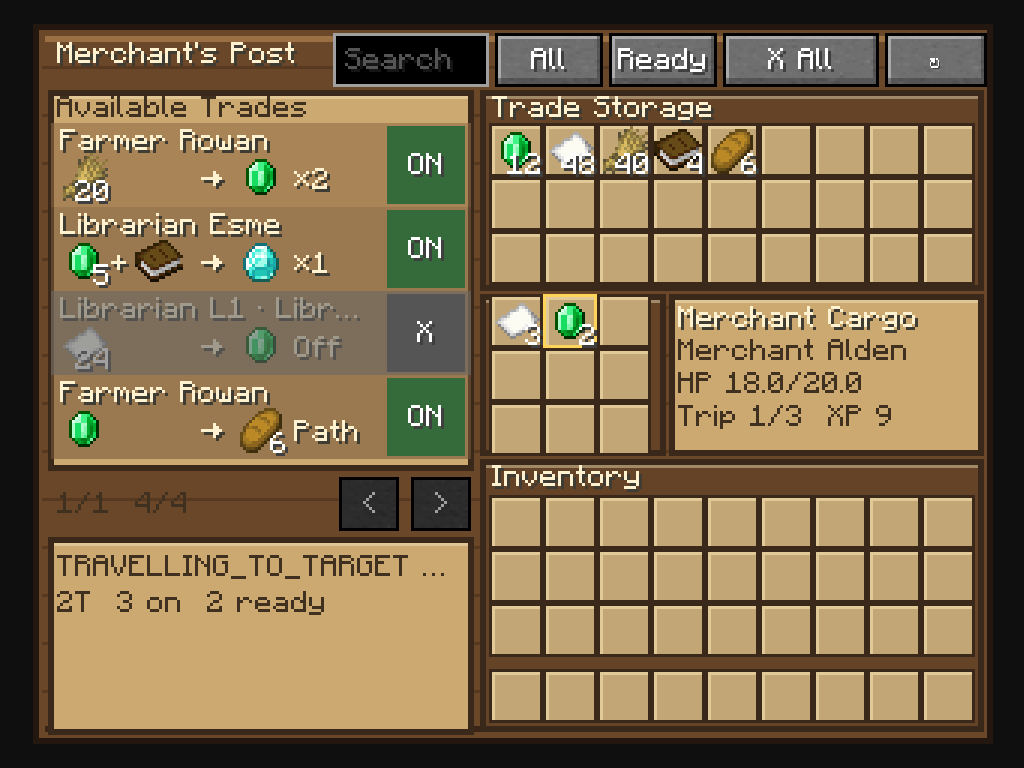
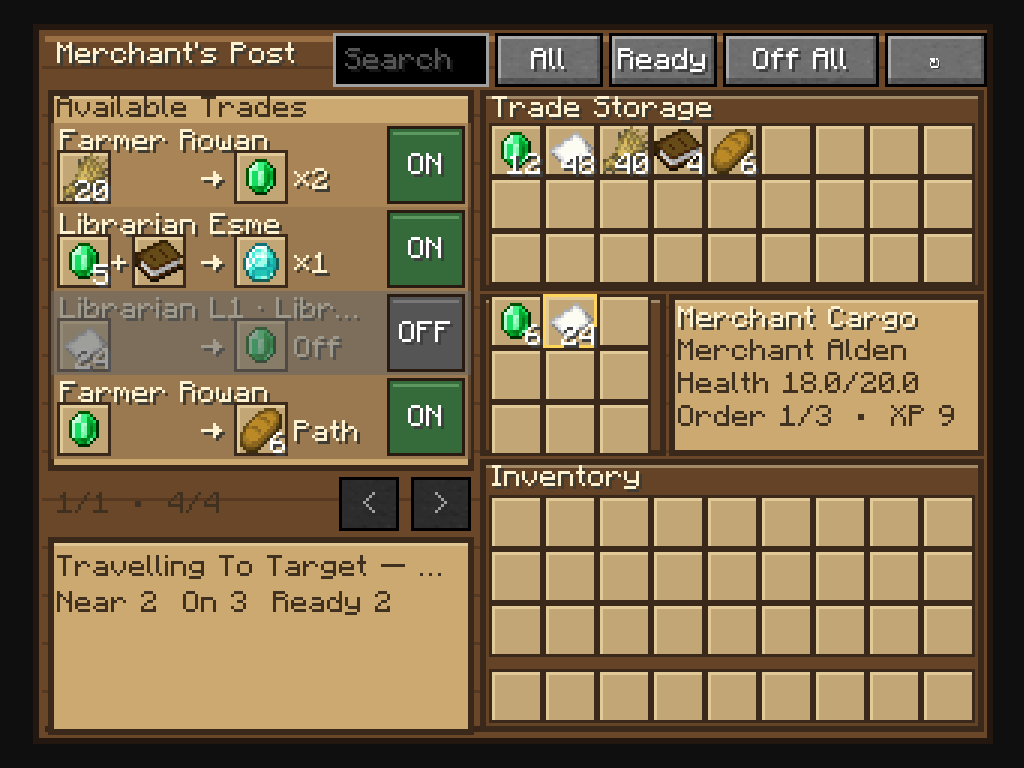
Polish merchant screen and refresh release audit

diff --git a/src/client/java/com/fluffybacon/merchantvillager/screen/client/MerchantPostScreen.java b/src/client/java/com/fluffybacon/merchantvillager/screen/client/MerchantPostScreen.java
@@ -81,7 +81,8 @@ public final class MerchantPostScreen extends HandledScreen<MerchantPostScreenHa
         search.setChangedListener(ignored -> page = 0);
         addDrawableChild(search);
 
-        filterButton = addDrawableChild(ButtonWidget.builder(Text.literal("All"), button -> {
+        filterButton = addDrawableChild(ButtonWidget.builder(
+            Text.translatable("merchant_villager.filter.all"), button -> {
             CataloguePayload payload = catalogue();
             int count = payload == null ? 1 : filterChoices(payload).size();
             filterIndex = Math.floorMod(filterIndex + 1, count);
@@ -90,14 +91,14 @@ public final class MerchantPostScreen extends HandledScreen<MerchantPostScreenHa
         }).dimensions(x + 154, y + 3, 36, 18)
             .tooltip(Tooltip.of(Text.translatable("merchant_villager.tooltip.filter")))
             .build());
-        sortButton = addDrawableChild(ButtonWidget.builder(Text.literal(sortMode.label), button -> {
+        sortButton = addDrawableChild(ButtonWidget.builder(Text.translatable(sortMode.key), button -> {
             sortMode = sortMode.next();
             page = 0;
             updateControlLabels(catalogue());
         }).dimensions(x + 192, y + 3, 36, 18)
             .tooltip(Tooltip.of(Text.translatable("merchant_villager.tooltip.sort")))
             .build());
-        addDrawableChild(ButtonWidget.builder(Text.literal("X All"), button -> {
+        addDrawableChild(ButtonWidget.builder(Text.translatable("merchant_villager.disable_all"), button -> {
             CataloguePayload payload = catalogue();
             if (payload != null) {
                 ClientPlayNetworking.send(new DisableAllOffersPayload(payload.postPos()));
@@ -177,7 +178,7 @@ public final class MerchantPostScreen extends HandledScreen<MerchantPostScreenHa
         if (entries.isEmpty()) {
             context.drawCenteredTextWithShadow(
                 textRenderer,
-                Text.literal("No matching trades"),
+                Text.translatable("merchant_villager.no_matching_trades"),
                 x + TRADE_LEFT + TRADE_WIDTH / 2,
                 y + 82,
                 0xFF6A5540
@@ -185,7 +186,9 @@ public final class MerchantPostScreen extends HandledScreen<MerchantPostScreenHa
         }
         context.drawText(
             textRenderer,
-            Text.literal((page + 1) + "/" + pages + "  " + entries.size() + "/" + payload.entries().size()),
+            Text.translatable(
+                "merchant_villager.page_summary", page + 1, pages, entries.size(), payload.entries().size()
+            ),
             x + 8,
             y + 156,
             0xFF403020,
@@ -198,7 +201,7 @@ public final class MerchantPostScreen extends HandledScreen<MerchantPostScreenHa
     private void drawStatusFooter(DrawContext context, CataloguePayload payload) {
         context.drawText(
             textRenderer,
-            fitText(payload.workerState() + " \u2014 " + payload.status(), 132),
+            fitText(displayState(payload.workerState()) + " \u2014 " + payload.status(), 132),
             x + 8,
             y + 177,
             0xFF403020,
@@ -206,11 +209,10 @@ public final class MerchantPostScreen extends HandledScreen<MerchantPostScreenHa
         );
         context.drawText(
             textRenderer,
-            Text.literal(
-                payload.targetCount() + "T  "
-                    + payload.enabledCount() + " on  "
-                    + payload.executableCount() + " ready"
-            ),
+            fitText(Text.translatable(
+                    "merchant_villager.trade_summary",
+                    payload.targetCount(), payload.enabledCount(), payload.executableCount()
+                ).getString(), 132),
             x + 8,
             y + 189,
             0xFF403020,
@@ -311,7 +313,7 @@ public final class MerchantPostScreen extends HandledScreen<MerchantPostScreenHa
             );
             context.drawText(
                 textRenderer,
-                Text.literal(payload.targetCount() + " targets"),
+                Text.translatable("merchant_villager.target_count", payload.targetCount()),
                 left,
                 y + 117,
                 color,
@@ -323,7 +325,9 @@ public final class MerchantPostScreen extends HandledScreen<MerchantPostScreenHa
         context.drawText(textRenderer, fitText(stats.name(), 98), left, y + 105, color, false);
         context.drawText(
             textRenderer,
-            Text.literal("HP " + formatOne(stats.health()) + "/" + formatOne(stats.maxHealth())),
+            Text.translatable(
+                "merchant_villager.health", formatOne(stats.health()), formatOne(stats.maxHealth())
+            ),
             left,
             y + 116,
             color,
@@ -332,8 +336,10 @@ public final class MerchantPostScreen extends HandledScreen<MerchantPostScreenHa
         context.drawText(
             textRenderer,
             fitText(
-                "Trip " + stats.completedExecutions() + "/" + stats.plannedExecutions()
-                    + "  XP " + stats.storedExperience(),
+                Text.translatable(
+                    "merchant_villager.work_order",
+                    stats.completedExecutions(), stats.plannedExecutions(), stats.storedExperience()
+                ).getString(),
                 98
             ),
             left,
@@ -363,6 +369,15 @@ public final class MerchantPostScreen extends HandledScreen<MerchantPostScreenHa
         context.fill(slotX, slotY, slotX + 16, slotY + 16, 0xFFC2A675);
         context.fill(slotX, slotY, slotX + 16, slotY + 1, 0xFFE2C998);
         context.fill(slotX, slotY, slotX + 1, slotY + 16, 0xFFE2C998);
+    }
+
+    private static void drawOutline(
+        DrawContext context, int left, int top, int right, int bottom, int color
+    ) {
+        context.fill(left, top, right, top + 1, color);
+        context.fill(left, bottom - 1, right, bottom, color);
+        context.fill(left, top + 1, left + 1, bottom - 1, color);
+        context.fill(right - 1, top + 1, right, bottom - 1, color);
     }
 
     @Override
@@ -412,17 +427,29 @@ public final class MerchantPostScreen extends HandledScreen<MerchantPostScreenHa
             rowY + TRADE_ROW_HEIGHT - 2,
             background
         );
+        if (hovered || entry.selected()) {
+            drawOutline(
+                context,
+                x + TRADE_LEFT,
+                rowY - 2,
+                x + TRADE_LEFT + TRADE_WIDTH,
+                rowY + TRADE_ROW_HEIGHT - 2,
+                entry.selected() ? 0xFFFFD45A : 0xFFD9B879
+            );
+        }
         String target = fitText(targetDisplayLabel(payload, entry), TOGGLE_X - 13);
         context.drawText(textRenderer, target, x + 9, rowY, 0xFFFFF2D0, true);
         int itemX = x + INPUT_X;
         int itemY = rowY + 9;
         ItemStack first = entry.offer().firstInput().itemStack()
             .copyWithCount(entry.effectiveFirstCount());
+        drawSlotFrame(context, itemX, itemY - 1);
         drawGhostInput(context, first, entry.offer().firstInput().matches(handler.getCursorStack()), itemX, itemY);
         if (entry.offer().secondInput().isPresent()) {
             context.drawText(textRenderer, "+", itemX + 17, itemY + 4, 0xFFFFF2D0, true);
             ItemStack second = entry.offer().secondInput().get().itemStack()
                 .copyWithCount(entry.effectiveSecondCount());
+            drawSlotFrame(context, x + SECOND_INPUT_X, itemY - 1);
             drawGhostInput(
                 context,
                 second,
@@ -432,6 +459,7 @@ public final class MerchantPostScreen extends HandledScreen<MerchantPostScreenHa
             );
         }
         context.drawText(textRenderer, "\u2192", x + 56, itemY + 4, 0xFFFFF2D0, true);
+        drawSlotFrame(context, x + OUTPUT_X, itemY - 1);
         context.drawItem(entry.offer().output(), x + OUTPUT_X, itemY - 1);
         context.drawStackOverlay(textRenderer, entry.offer().output(), x + OUTPUT_X, itemY - 1);
         context.drawText(
@@ -451,16 +479,33 @@ public final class MerchantPostScreen extends HandledScreen<MerchantPostScreenHa
                 0x99606060
             );
         }
+        int toggleFill = entry.enabled() ? 0xFF356A3A : 0xFF555555;
         context.fill(
             x + TOGGLE_X,
             rowY - 1,
             x + TOGGLE_X + 26,
             rowY + TRADE_ROW_HEIGHT - 3,
-            entry.enabled() ? 0xFF356A3A : 0xFF555555
+            0xFF2A1B12
+        );
+        context.fill(
+            x + TOGGLE_X + 1,
+            rowY,
+            x + TOGGLE_X + 25,
+            rowY + TRADE_ROW_HEIGHT - 4,
+            toggleFill
+        );
+        context.fill(
+            x + TOGGLE_X + 2,
+            rowY + 1,
+            x + TOGGLE_X + 24,
+            rowY + 2,
+            entry.enabled() ? 0xFF5C985F : 0xFF777777
         );
         context.drawCenteredTextWithShadow(
             textRenderer,
-            entry.enabled() ? "ON" : "X",
+            Text.translatable(entry.enabled()
+                ? "merchant_villager.toggle.on"
+                : "merchant_villager.toggle.off"),
             x + TOGGLE_X + 13,
             rowY + 8,
             0xFFFFFFFF
@@ -786,14 +831,14 @@ public final class MerchantPostScreen extends HandledScreen<MerchantPostScreenHa
 
     private List<FilterChoice> filterChoices(CataloguePayload payload) {
         List<FilterChoice> choices = new ArrayList<>();
-        choices.add(new FilterChoice("All", ignored -> true));
-        choices.add(new FilterChoice("Enabled", CataloguePayload.Entry::enabled));
-        choices.add(new FilterChoice("Disabled", entry -> !entry.enabled()));
-        choices.add(new FilterChoice("Ready", MerchantPostScreen::isReady));
-        choices.add(new FilterChoice("Missing", entry ->
+        choices.add(new FilterChoice(translated("merchant_villager.filter.all"), ignored -> true));
+        choices.add(new FilterChoice(translated("merchant_villager.filter.enabled"), CataloguePayload.Entry::enabled));
+        choices.add(new FilterChoice(translated("merchant_villager.filter.disabled"), entry -> !entry.enabled()));
+        choices.add(new FilterChoice(translated("merchant_villager.filter.ready"), MerchantPostScreen::isReady));
+        choices.add(new FilterChoice(translated("merchant_villager.filter.missing"), entry ->
             entry.enabled() && !entry.offer().isOutOfStock() && entry.fundableExecutions() <= 0));
-        choices.add(new FilterChoice("Out", entry -> entry.offer().isOutOfStock()));
-        choices.add(new FilterChoice("Wander", entry -> entry.offer().wanderingTrader()));
+        choices.add(new FilterChoice(translated("merchant_villager.filter.out"), entry -> entry.offer().isOutOfStock()));
+        choices.add(new FilterChoice(translated("merchant_villager.filter.wander"), entry -> entry.offer().wanderingTrader()));
         payload.entries().stream()
             .map(entry -> entry.offer().profession())
             .distinct()
@@ -812,7 +857,7 @@ public final class MerchantPostScreen extends HandledScreen<MerchantPostScreenHa
             filterButton.setMessage(Text.literal(filters.get(filterIndex).label));
         }
         if (sortButton != null) {
-            sortButton.setMessage(Text.literal(sortMode.label));
+            sortButton.setMessage(Text.translatable(sortMode.key));
         }
     }
 
@@ -944,6 +989,27 @@ public final class MerchantPostScreen extends HandledScreen<MerchantPostScreenHa
         return text.length() <= max ? text : text.substring(0, Math.max(0, max - 1)) + "\u2026";
     }
 
+    private static String translated(String key) {
+        return Text.translatable(key).getString();
+    }
+
+    private static String displayState(String state) {
+        if (state == null || state.isBlank()) {
+            return translated("merchant_villager.state.unknown");
+        }
+        String[] words = state.toLowerCase(Locale.ROOT).split("_");
+        StringBuilder result = new StringBuilder();
+        for (String word : words) {
+            if (!result.isEmpty()) {
+                result.append(' ');
+            }
+            if (!word.isEmpty()) {
+                result.append(Character.toUpperCase(word.charAt(0))).append(word.substring(1));
+            }
+        }
+        return result.toString();
+    }
+
     private String fitText(String text, int maxWidth) {
         if (textRenderer.getWidth(text) <= maxWidth) {
             return text;
@@ -965,17 +1031,17 @@ public final class MerchantPostScreen extends HandledScreen<MerchantPostScreenHa
     }
 
     private enum SortMode {
-        READY("Ready"),
-        DISTANCE("Near"),
-        PROFESSION("Job"),
-        INPUT("Input"),
-        OUTPUT("Output"),
-        REMAINING("Uses");
+        READY("merchant_villager.sort.ready"),
+        DISTANCE("merchant_villager.sort.near"),
+        PROFESSION("merchant_villager.sort.job"),
+        INPUT("merchant_villager.sort.input"),
+        OUTPUT("merchant_villager.sort.output"),
+        REMAINING("merchant_villager.sort.uses");
 
-        private final String label;
+        private final String key;
 
-        SortMode(String label) {
-            this.label = label;
+        SortMode(String key) {
+            this.key = key;
         }
 
         private SortMode next() {

diff --git a/MODRINTH.md b/MODRINTH.md
@@ -61,17 +61,17 @@ Do not upload the reference texture ZIP files or development/run directories.
 
 ## Media and rights
 
-- Use a square, project-relevant icon that the project author has the right to
-  redistribute. The prepared upload is
-  `art/merchant-villager-project-thumbnail-v2.png` (256 x 256 PNG, verified at
-  no more than Modrinth's 256 KiB upload limit). Its full-resolution generated
-  source is `art/merchant-villager-project-thumbnail-source-v2.png`; the first
-  icon and its source remain available as non-destructive alternatives.
-- Gallery candidates are `art/screenshots/merchant-post-gui.png` (title:
-  `Merchant's Post trade control`) and
-  `art/screenshots/merchant-villager-outfit.png` (title:
-  `The physical Merchant worker`). Add a third delivery screenshot when one is
-  available.
+- Do **not** upload `art/merchant-villager-project-thumbnail-v2.png`, either
+  generated source image, or the derived Fabric icon to the Modrinth project
+  page. Modrinth's August 13, 2026 rules prohibit AI-generated or AI-derived
+  images in project icons, gallery entries, descriptions, and changelogs.
+- A new project icon made directly by the human project author is required
+  before submission. Record its source and authorship here before uploading it.
+- `art/screenshots/merchant-post-gui.png` is a deterministic in-game capture of
+  the real GUI and does not contain the AI-derived Merchant clothing. It is the
+  safest current gallery candidate (title: `Merchant's Post trade control`).
+- Do not upload `art/screenshots/merchant-villager-outfit.png` or other images
+  containing the AI-derived clothing artwork under the current image rule.
 - Give every gallery image a descriptive title.
 - Before submission, confirm that every bundled mod-authored texture and icon
   is original or covered by permission that allows redistribution under the
@@ -79,6 +79,15 @@ Do not upload the reference texture ZIP files or development/run directories.
 - Confirm the in-game gallery captures may be used for project documentation
   and uploaded under the applicable Minecraft terms and usage guidelines; do
   not describe the Minecraft imagery inside them as CC0.
+
+## AI disclosure
+
+The project used substantial generative-AI assistance for code, artwork,
+documentation, testing, and publication preparation. Select Modrinth's
+`Contains AI-generated content` disclosure and describe that assistance
+honestly. Public submission is only appropriate if the human author made the
+primary and significant creative contribution required by Modrinth's current
+rules; this is an author judgment that automated checks cannot make.
 
 ## Final checks
 
@@ -90,4 +99,6 @@ Do not upload the reference texture ZIP files or development/run directories.
 - Confirm the project title contains only the project name and the summary does
   not repeat it.
 - Confirm the description remains readable without relying on images.
+- Confirm a human-authored, non-AI-generated project icon is being used.
+- Confirm `Contains AI-generated content` is selected and accurately described.
 - Check https://modrinth.com/legal/rules immediately before submission.

diff --git a/art/README.md b/art/README.md
@@ -26,7 +26,9 @@ and creates both the transparent release icon and the 128x128 Fabric icon.
 `merchant-villager-project-thumbnail-source-v2.png` is the untouched 2026-08-11
 release-thumbnail generation. The existing project icon and profession concept
 were supplied only as identity/style references. The optimized 256x256 Modrinth
-upload is `merchant-villager-project-thumbnail-v2.png`.
+copy is `merchant-villager-project-thumbnail-v2.png`. These files are retained
+as development history only. Modrinth's August 13, 2026 rules prohibit their
+use as a project-page icon, gallery image, or description image.
 
 ## Profession concept prompt
 

diff --git a/CHANGELOG.md b/CHANGELOG.md
@@ -30,6 +30,9 @@ Notable user-facing changes to Merchant Villager are recorded here.
 
 ### Improved
 
+- The Merchant Post screen now uses recessed trade-item slots, bordered
+  selection and hover states, clearer ON/OFF controls, human-readable worker
+  states, localized controls, and compact player-facing status summaries.
 - The Merchant's base outfit has cleaner cap shading, split lapels, cream
   sleeves, fitted apron pockets, coat tails, cuffs, satchel, clasp, chain, and
   ledger details. Its original burgundy cloth is now an isolated tint layer,
